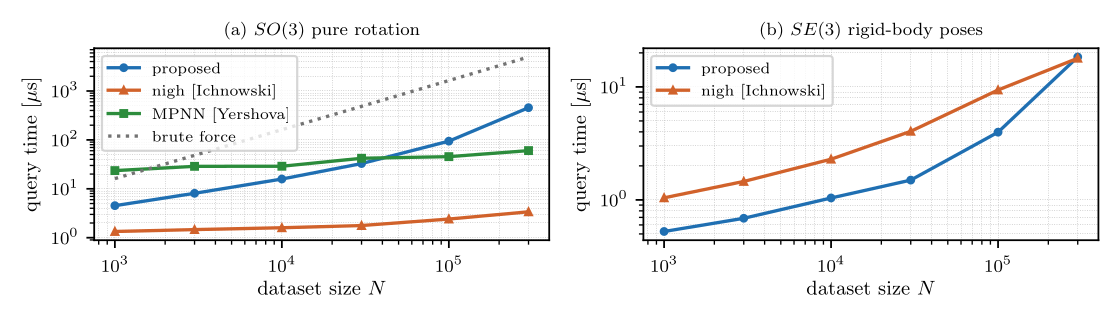
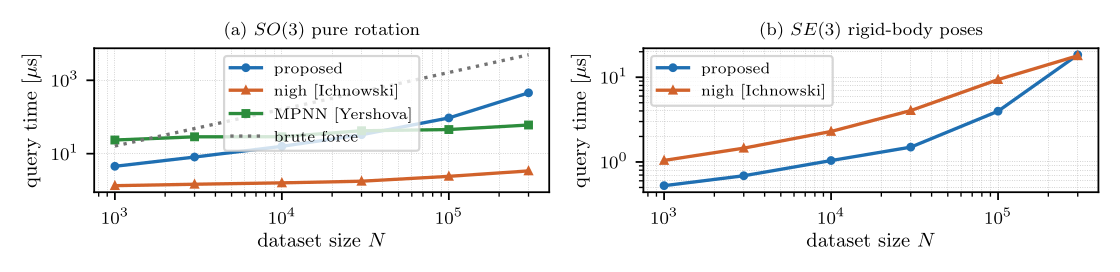
Plot tweaks for paper page budget (euclidean_all 3-panel, smaller manifold/incremental figs)

Changed region(s): [[0.0, 0.0588, 1.0, 0.9412], [0.4375, 0.3235, 0.4688, 0.3824], [0.5625, 0.4412, 0.5938, 0.4706]]

diff --git a/multiLibTests/plot_multilib.py b/multiLibTests/plot_multilib.py
@@ -207,10 +207,58 @@ def fig_highdim_combined(rows):
     save(fig, "euclidean_highdim")
 
 
+def fig_euclidean_all(rows):
+    """Single full-width row with the three informative Euclidean panels
+    (page budget): (a) KITTI build, (b) KITTI query, (c) high-dim query;
+    one shared legend covering the union of libraries. Recall is reported
+    in the caption (1.0 for all exact trees, ~0.99 for the approximate
+    methods at d=128)."""
+    kitti_libs = ["proposed", "pico_tree", "flann_kdtree", "pcl_kdtree",
+                  "libnabo", "libkdtree"]
+    hd_libs = ["proposed", "pico_tree", "flann_kdtree", "libnabo",
+               "flann_4rand", "hnsw_approx", "brute_force"]
+    fig, (a0, a1, a2) = plt.subplots(1, 3, figsize=(7.05, 2.15))
+    fig.set_layout_engine("none")
+    for lib in kitti_libs:
+        x, y = series(rows, "kitti", lib, "N", "build_ms")
+        if x:
+            lab, col, mk, ls = STYLE[lib]
+            a0.loglog(x, y, ls=ls, marker=mk, ms=2.6, color=col, label=lab)
+    for lib in kitti_libs + ["brute_force"]:
+        x, y = series(rows, "kitti", lib, "N", "query_us")
+        if x:
+            lab, col, mk, ls = STYLE[lib]
+            a1.loglog(x, y, ls=ls, marker=mk, ms=2.6, color=col)
+    for lib in hd_libs:
+        x, y = series(rows, "highdim", lib, "dim", "query_us")
+        if x:
+            lab, col, mk, ls = STYLE[lib]
+            a2.semilogy(x, y, ls=ls, marker=mk, ms=2.6, color=col,
+                        label=lab if lib not in kitti_libs else None)
+    a0.set_xlabel("dataset size $N$\n(a) KITTI: index build")
+    a0.set_ylabel("build [ms]")
+    a1.set_xlabel("dataset size $N$\n(b) KITTI: exact $1$-NN query")
+    a1.set_ylabel(r"query [$\mu$s]")
+    a2.set_xlabel("feature dimension $d$\n(c) high-dim: $1$-NN query")
+    a2.set_ylabel(r"query [$\mu$s]")
+    a2.set_xticks([32, 64, 128])
+    for ax in (a0, a1, a2):
+        ax.grid(True, which="both", ls=":", lw=0.4, alpha=0.6)
+        ax.tick_params(labelsize=7)
+    h0, l0 = a0.get_legend_handles_labels()
+    h2, l2 = a2.get_legend_handles_labels()
+    fig.legend(h0 + h2, l0 + l2, loc="upper center", ncol=5, fontsize=7,
+               bbox_to_anchor=(0.5, 1.00), frameon=False)
+    fig.subplots_adjust(left=0.075, right=0.99, bottom=0.30,
+                        top=0.80, wspace=0.42)
+    save(fig, "euclidean_all")
+
+
 def main():
     rows = load()
     fig_kitti_combined(rows)
     fig_highdim_combined(rows)
+    fig_euclidean_all(rows)
     print("Figures written to", PAPER_FIGS)
 
 

diff --git a/incrementalTests/plot_incremental.py b/incrementalTests/plot_incremental.py
@@ -70,7 +70,7 @@ def load():
 
 def main():
     data = load()
-    fig, (ax1, ax2) = plt.subplots(2, 1, figsize=(3.45, 3.6))
+    fig, (ax1, ax2) = plt.subplots(2, 1, figsize=(3.3, 3.15))
 
     # (a) update-latency CDF, steady state
     for key, (label, color, ls) in STYLE.items():

diff --git a/manifoldLibTests/plot_manifold_libs.py b/manifoldLibTests/plot_manifold_libs.py
@@ -80,7 +80,7 @@ def fig_space(rows, space, libs, name, title):
 
 def fig_combined(rows):
     """One full-width row: (a) SO(3), (b) SE(3)."""
-    fig, (a0, a1) = plt.subplots(1, 2, figsize=(7.0, 2.0))
+    fig, (a0, a1) = plt.subplots(1, 2, figsize=(7.0, 1.7))
     for lib in ["proposed", "nigh", "mpnn", "brute_force"]:
         x, y = series(rows, "SO3", lib, "query_us")
         if x: